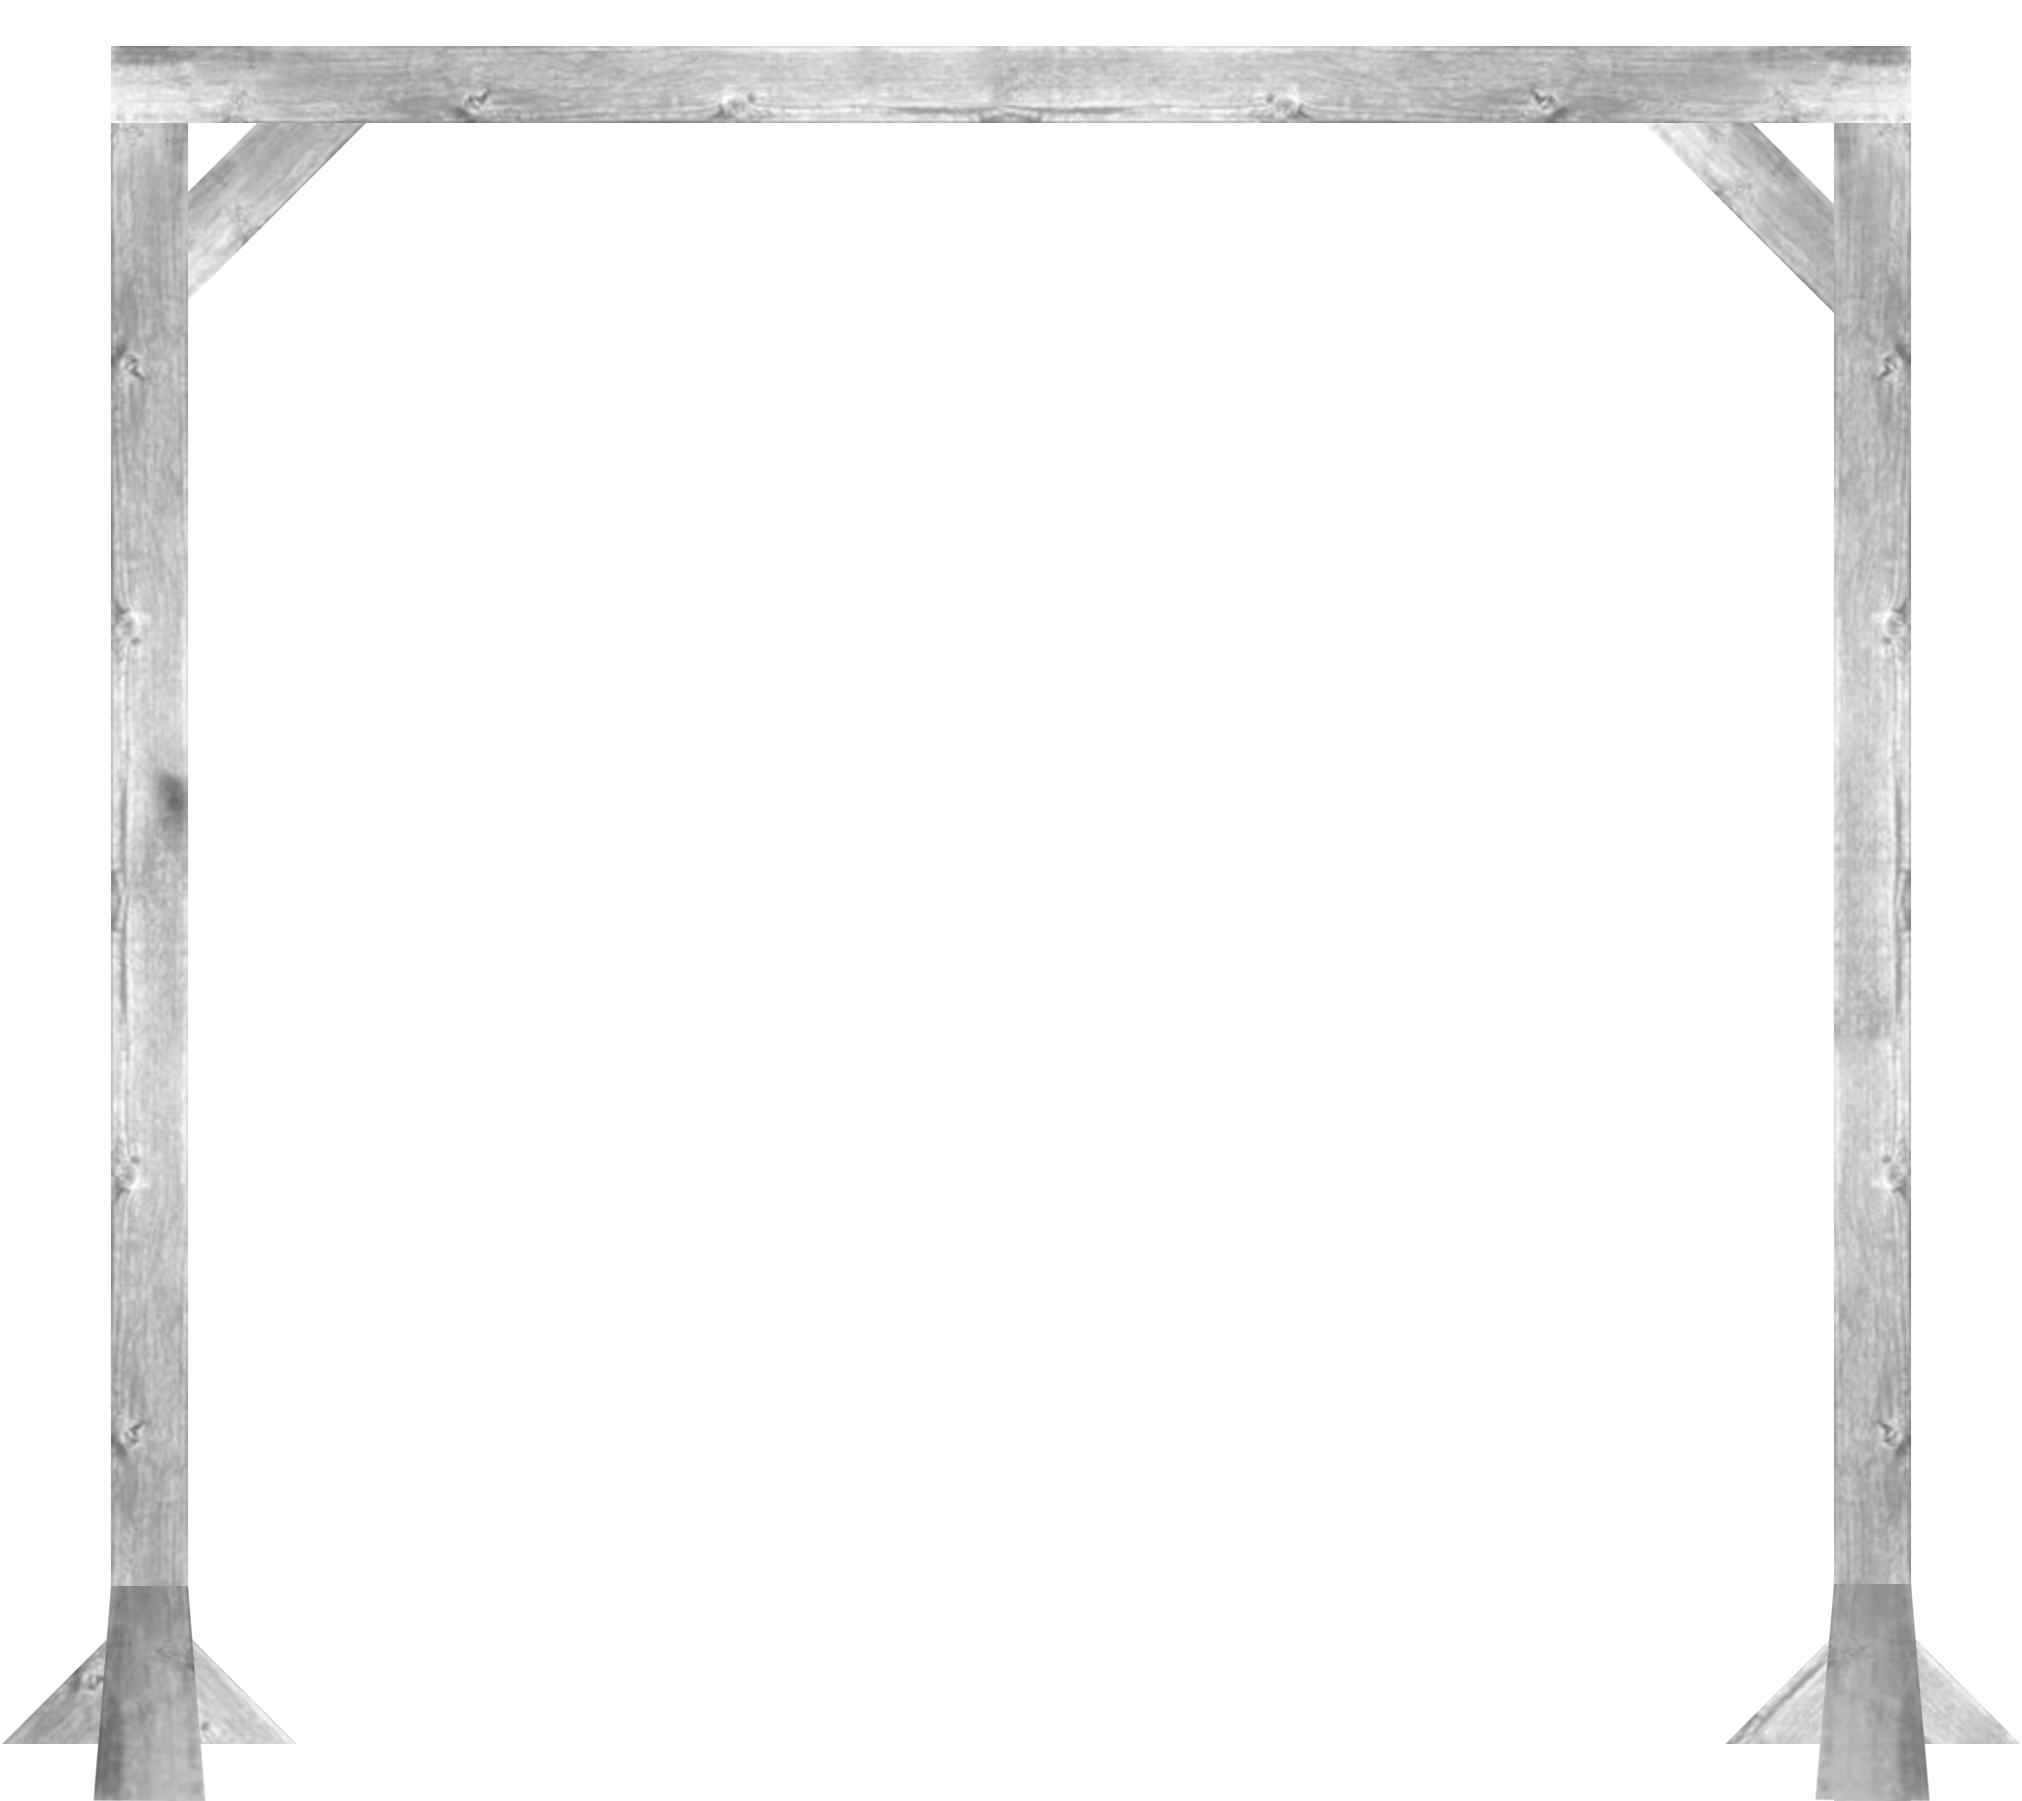
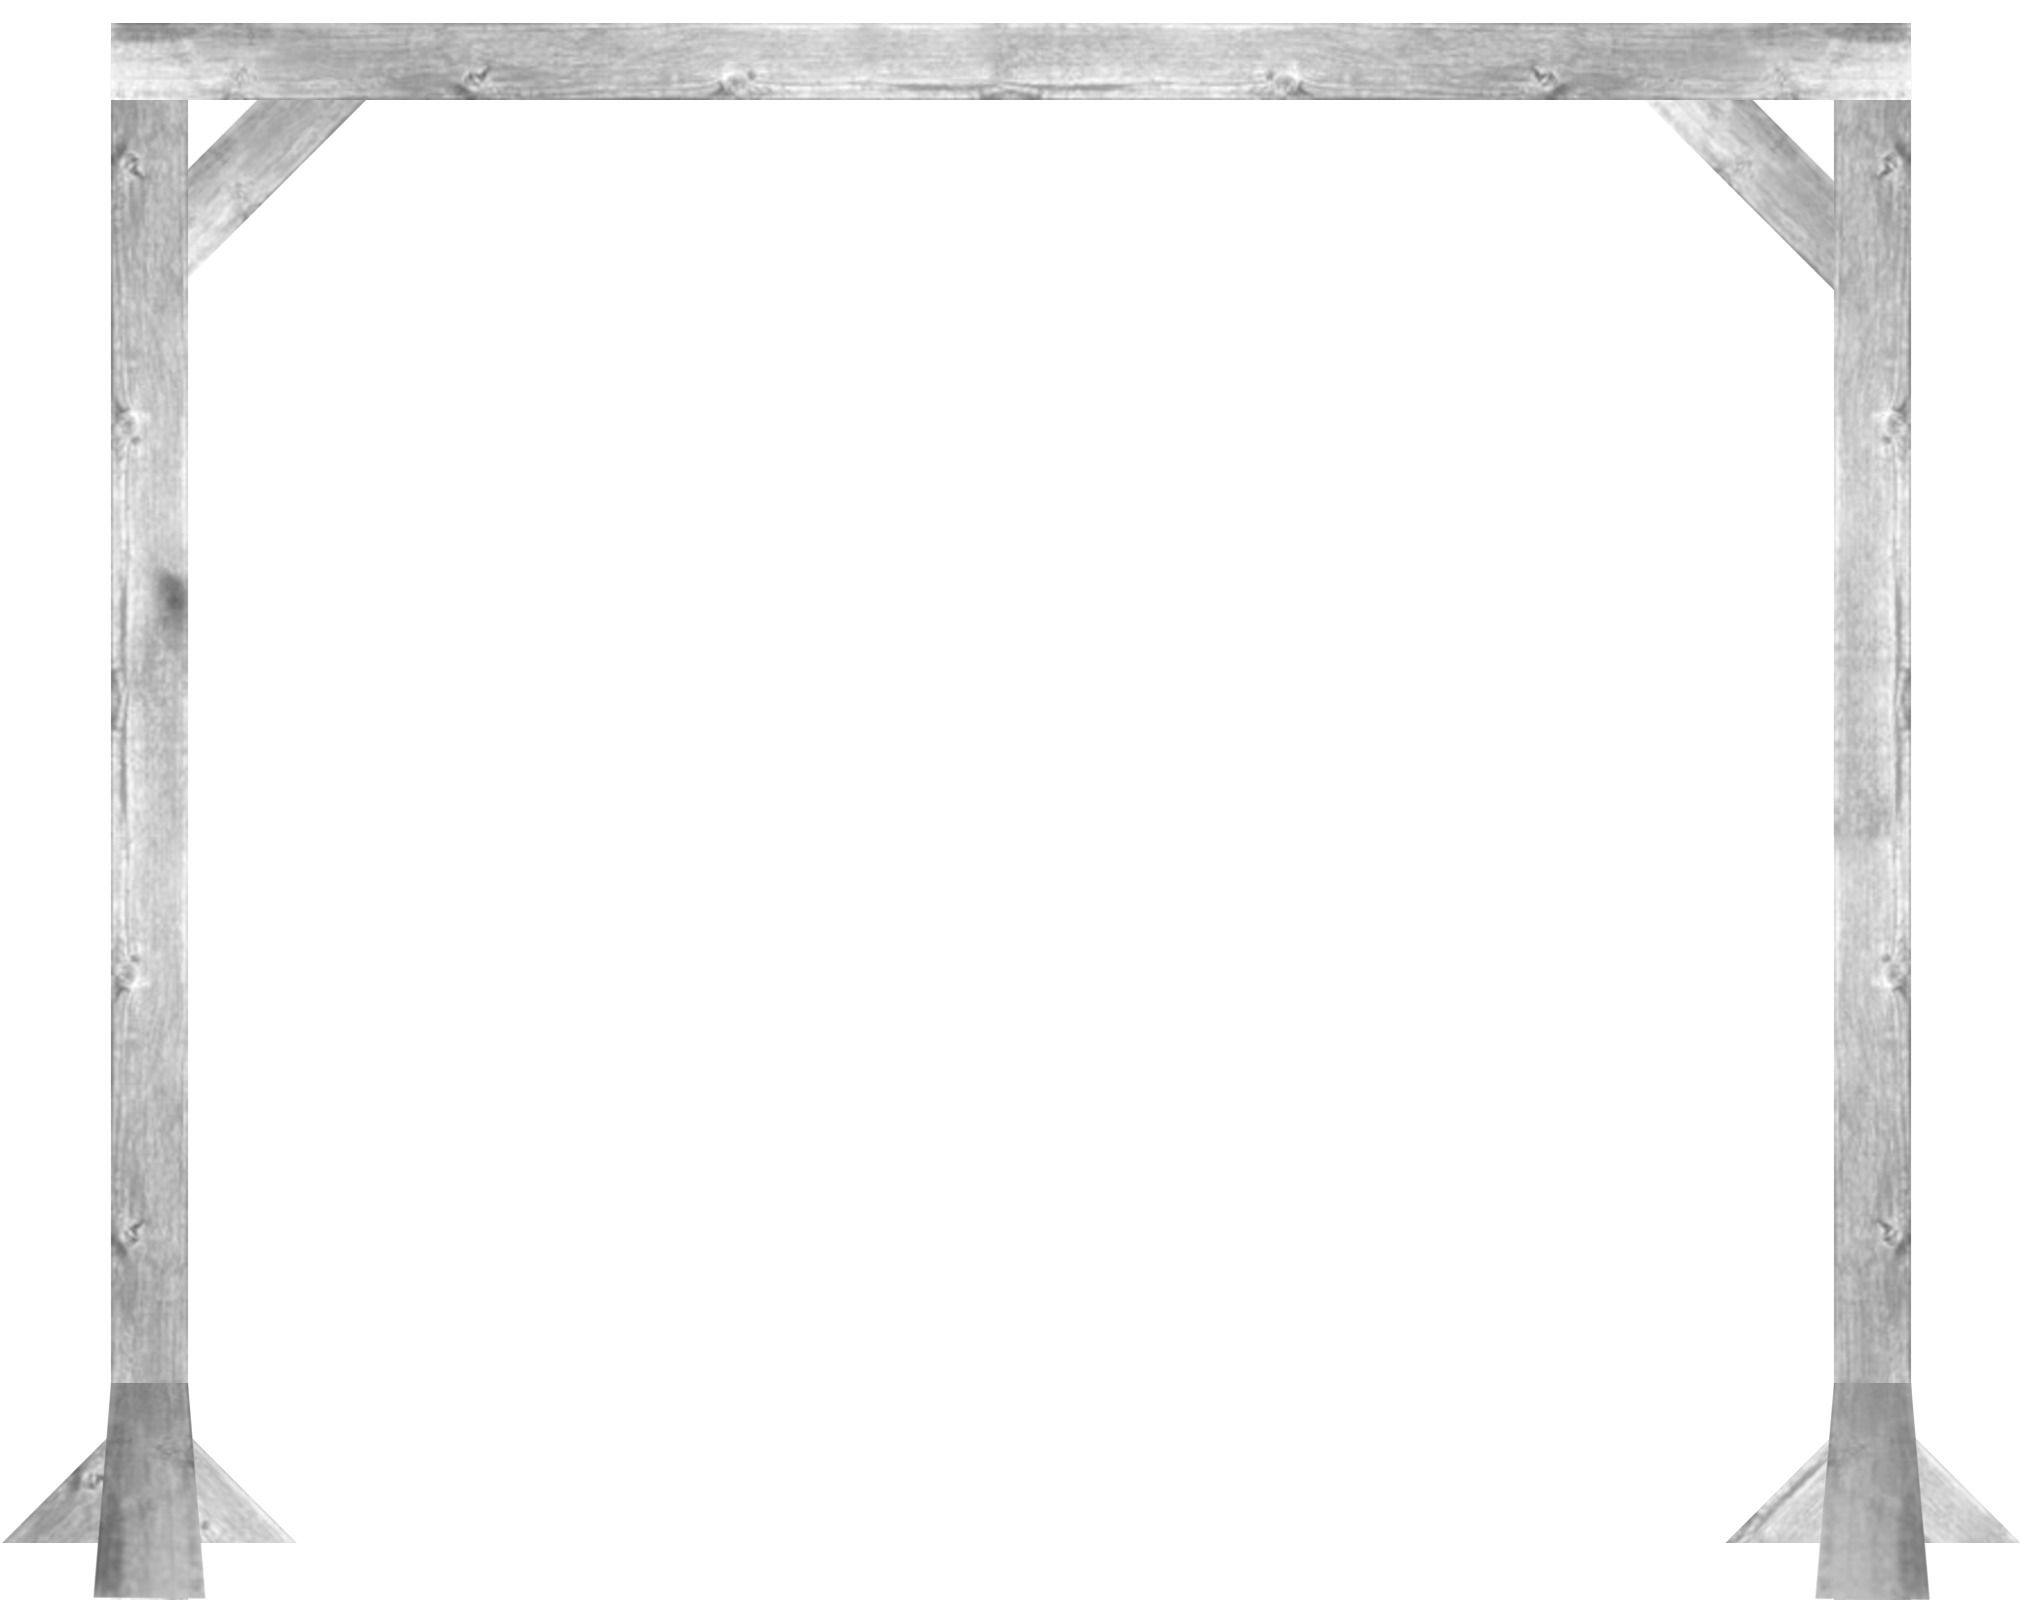
[Update] Add back knot requisite and fix toon height while suspended

diff --git a/src/assets/room_devices/suspension_bamboo/suspension_bamboo.asset.ts b/src/assets/room_devices/suspension_bamboo/suspension_bamboo.asset.ts
@@ -29,6 +29,22 @@ DefineRoomDeviceAsset({
 		},
 	},
 	modules: {
+		configuration: {
+			type: 'typed',
+			name: "Setup",
+			staticConfig: { slotName: 'under_bamboo' },
+			variants: [
+				{
+					id: 'frame',
+					name: 'Tied to Frame',
+					default: true,
+				},
+				{
+					id: 'hanging',
+					name: 'Tied from Ceiling',
+				},
+			]
+		},
 		position: {
 			type: 'typed',
 			name: 'Position',
@@ -43,7 +59,7 @@ DefineRoomDeviceAsset({
 							under_bamboo: {
 								poseLimits: {
 									view: 'front',
-									legs: ['standing']
+									legs: ['standing', 'kneeling']
 								},
 							}
 						}
@@ -57,28 +73,11 @@ DefineRoomDeviceAsset({
 							under_bamboo: {
 								poseLimits: {
 									view: 'back',
-									legs: ['standing']
+									legs: ['standing', 'kneeling']
 								},
 							}
 						}
 					}
-				},
-			]
-		},
-
-		configuration: {
-			type: 'typed',
-			name: "Chest Line",
-			staticConfig: { slotName: 'under_bamboo' },
-			variants: [
-				{
-					id: 'frame',
-					name: 'Frame',
-					default: true,
-				},
-				{
-					id: 'hanging',
-					name: 'Hanging',
 				},
 			]
 		},
@@ -99,9 +98,16 @@ DefineRoomDeviceAsset({
 						blockSlotsEnterLeave: ['under_bamboo'],
 						slotProperties: {
 							under_bamboo: {
+								attributes: {
+									requires: [
+										'Back_knot_anchor_point'
+									]
+								},
 								poseLimits: {
-									legs: ['standing'],
+									legs: ['standing', 'kneeling'],
 									bones: {
+										//leg_l: [[-3, 2]],
+										//leg_r: [[-3, 2]],
 										character_rotation: 0,
 									}
 								},
@@ -191,7 +197,7 @@ DefineRoomDeviceAsset({
 			colorizationKey: 'frame',
 			imageOverrides: [
 				{
-					image: 'bamboo_frame.png@2000x1650',
+					image: 'bamboo_frame.png@2000x1600',
 					condition: [
 						[
 							{
@@ -206,7 +212,7 @@ DefineRoomDeviceAsset({
 
 			offsetOverrides: [
 				{
-					offset: { x: -240, y: -250 },
+					offset: { x: -240, y: -240 },
 					condition: [
 						[
 							{
@@ -293,6 +299,24 @@ DefineRoomDeviceAsset({
 					y: 0,
 				},
 			},
+			characterPositionOverrides: [
+				{
+					position: {
+						offsetX: 0,
+						offsetY: 0,
+						disablePoseOffset: true,
+					},
+					condition: [
+						[
+							{
+								module: 'chest_line',
+								operator: '=',
+								value: 'standing',
+							},
+						]
+					]
+				},
+			]
 		},
 		{
 			type: 'sprite',

diff --git a/src/assets/arm_restraints/arm_jute_ropes/arm_jute_ropes.asset.ts b/src/assets/arm_restraints/arm_jute_ropes/arm_jute_ropes.asset.ts
@@ -25,6 +25,11 @@ DefineAsset({
 					id: 'wrists_high',
 					name: 'Box High',
 					properties: {
+						attributes: {
+							provides: [
+								"Back_knot_anchor_point"
+							]
+						},
 						poseLimits: {
 							arms: {
 								position: 'back',
@@ -40,7 +45,6 @@ DefineAsset({
 								upper: 'right',
 							},
 						},
-
 						stateFlags: {
 							requires: {
 								wrists_unlinked_to_crotch: 'Box High pose cannot be used together with hands being tied to a crotch rope',
@@ -53,6 +57,11 @@ DefineAsset({
 					name: 'Box Normal',
 					default: true,
 					properties: {
+						attributes: {
+							provides: [
+								"Back_knot_anchor_point"
+							]
+						},
 						poseLimits: {
 							arms: {
 								position: 'back',
@@ -79,6 +88,11 @@ DefineAsset({
 					id: 'wrists_low',
 					name: 'Box Low',
 					properties: {
+						attributes: {
+							provides: [
+								"Back_knot_anchor_point"
+							]
+						},
 						poseLimits: {
 							arms: {
 								position: 'back',

diff --git a/src/attributes.ts b/src/attributes.ts
@@ -645,6 +645,10 @@ const ATTRIBUTES_DEFINITION_BASE = {
 		description: 'An armbinder that is chainable to another item',
 	},
 	// Rope
+	Back_knot_anchor_point: {
+		name: 'Back knot',
+		description: 'A knot on the back to which a connecting rope can be tied',
+	},
 	Rope_waist: {
 		name: 'Rope around waist',
 		description: 'A rope around the waist',
